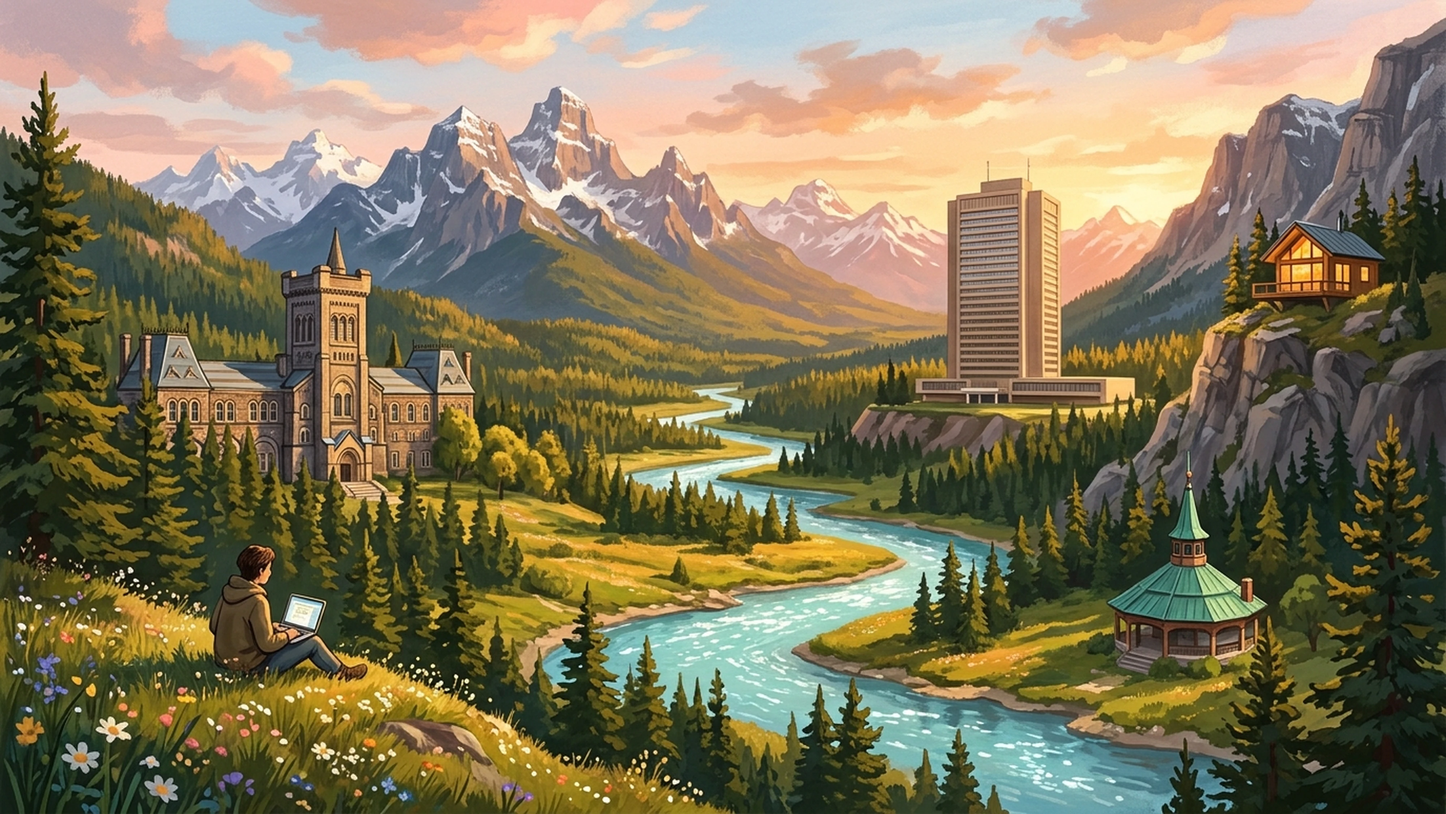
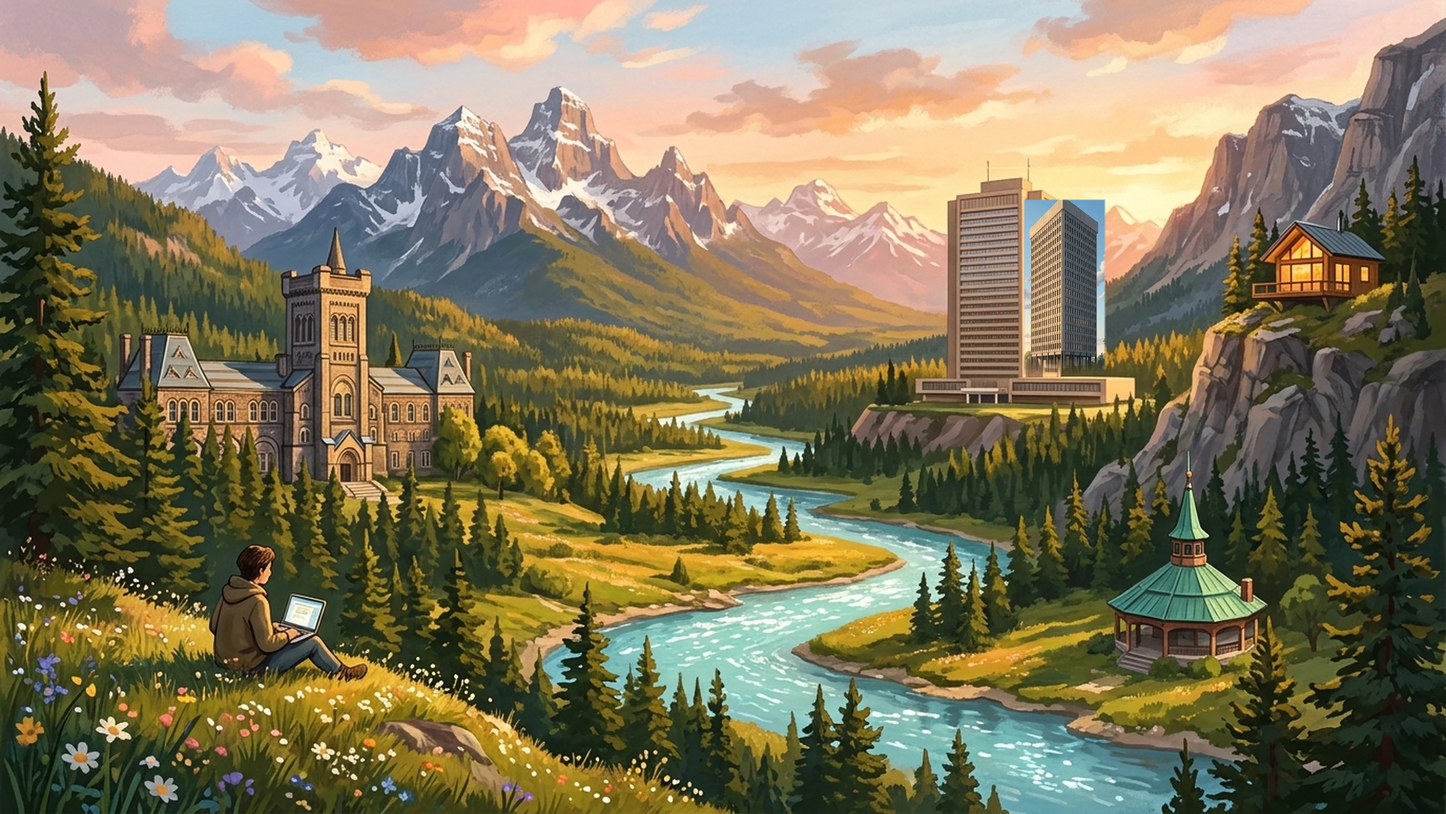
feat(hero): update R.H. Coats Building day/night scenes with authentic flat roof and update card photo

Changed region(s): [[0.6875, 0.2176, 0.7812, 0.4663]]

diff --git a/feedback.md b/feedback.md
@@ -4,6 +4,13 @@
 <!-- Use the in-app Review widget to drop pins and save changes here -->
 
 ## Resolved
+- [x] **Item #48 (2026-10-23)** (R.H. Coats Building Day/Night & Card Photo)
+  - **Requested Change**: Redo R.H. Coats Building for Day and Night scenes based on reference photo, ensuring a clean flat concrete roofline with no small building or penthouse on top.
+  - **Resolution**:
+    1. Rendered authentic 26-storey Brutalist R.H. Coats tower for Day and Night with a completely flat, flush concrete parapet band (no rooftop penthouse or extra structures) and continuous vertical fins.
+    2. Composited into desktop and mobile plates: [v2/h/plate.webp](file:///Users/pushp/Documents/Projects/visualportfolio/v2/h/plate.webp), [v2/h/plate-night2.webp](file:///Users/pushp/Documents/Projects/visualportfolio/v2/h/plate-night2.webp), [v2/h/phone-day.webp](file:///Users/pushp/Documents/Projects/visualportfolio/v2/h/phone-day.webp), and [v2/h/phone-night.webp](file:///Users/pushp/Documents/Projects/visualportfolio/v2/h/phone-night.webp).
+    3. Replaced [v2/s/stc-coats.webp](file:///Users/pushp/Documents/Projects/visualportfolio/v2/s/stc-coats.webp) with the user's high-resolution 648x831 reference photograph.
+
 - [x] **Item #47 (2026-10-23)** (`div.wrap > div.sec-head > p:nth-of-type(2)`)
   - Current text: "Based in Ottawa. When I'm not architecting data systems, I'm building 3D video games with my kids or writing on Substack."
   - **Requested Change**: Remove
